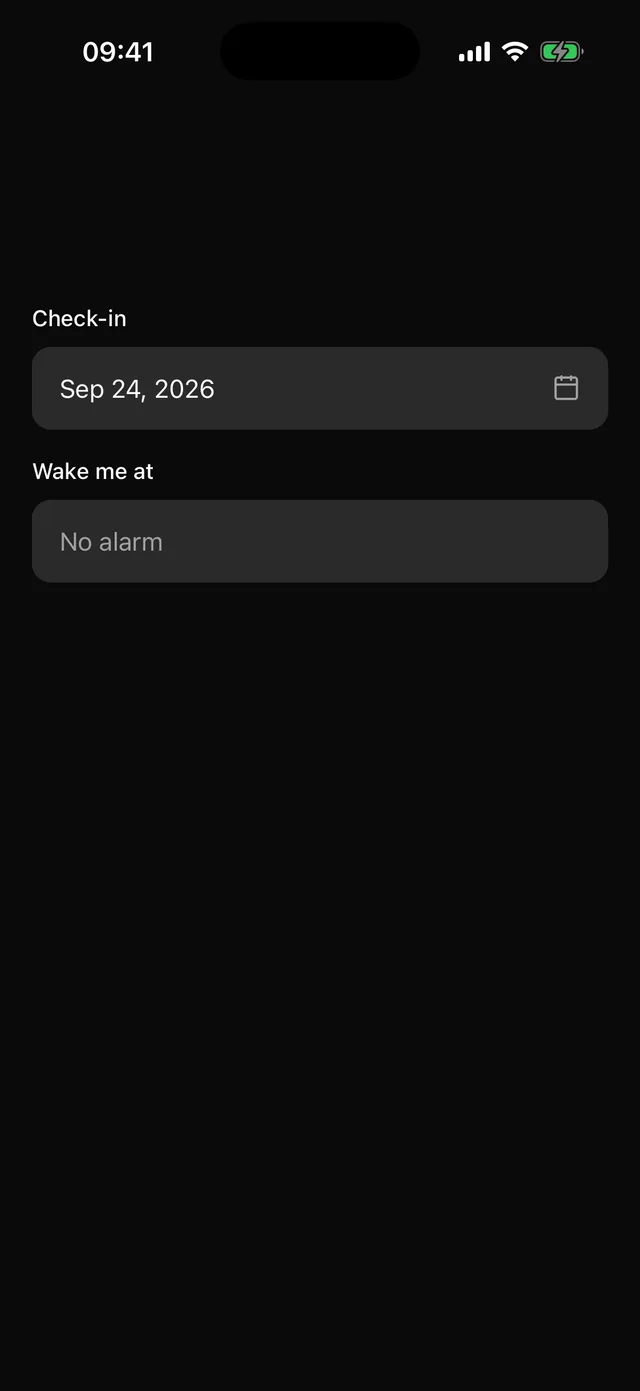
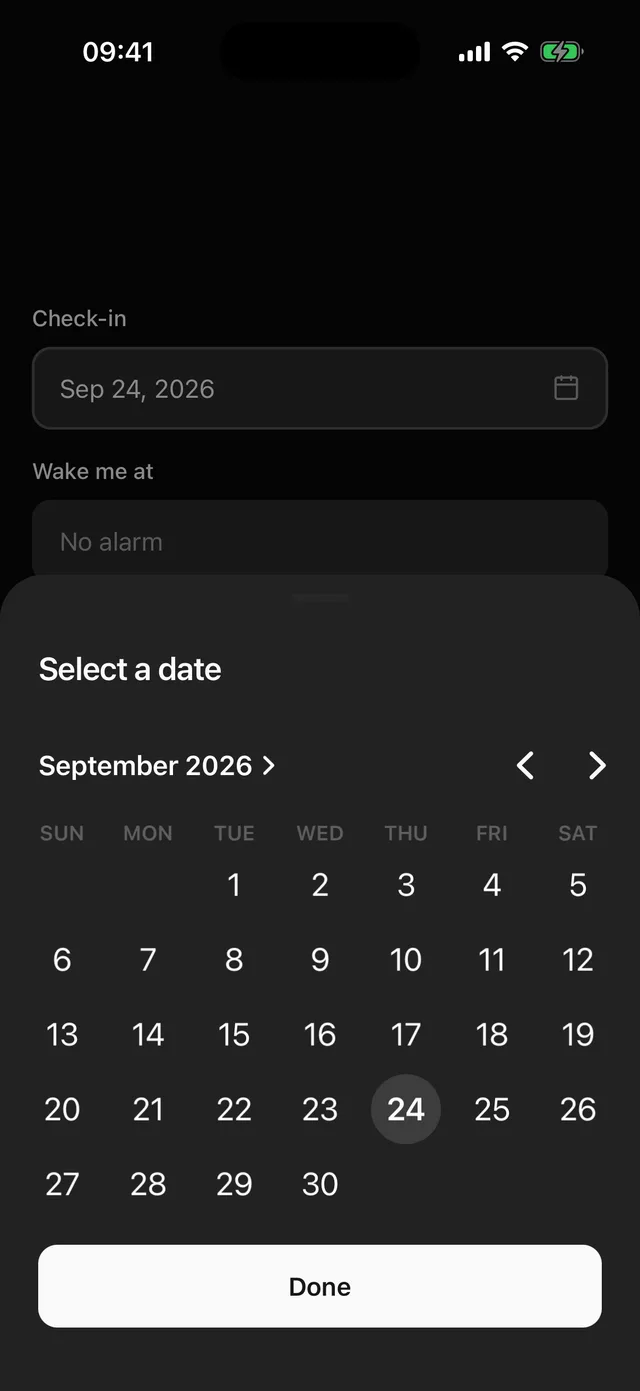
fix(registry): date picker calendar fills the dialog, preview shows it open
The iOS calendar sets its own size to about 330pt, so it sat centred in
the dialog with a gap on both sides. A minimum width is the one size the
native view does not override, so the calendar now fills the dialog. The
wrapper pulls it out by the margin the calendar keeps, and the month, the
weekday row and the Done button share one edge.

DatePicker takes open, defaultOpen and onOpenChange. On Android the
system dialog follows the same state and closes when open turns false.

The docs capture opens the calendar. The closed field said nothing about
the component.

diff --git a/apps/example/src/components/ui/date-picker.tsx b/apps/example/src/components/ui/date-picker.tsx
@@ -1,4 +1,11 @@
-import { cloneElement, isValidElement, useCallback, useState, type ReactElement } from 'react'
+import {
+  cloneElement,
+  isValidElement,
+  useCallback,
+  useEffect,
+  useState,
+  type ReactElement,
+} from 'react'
 import { Platform, Pressable, View, type PressableProps } from 'react-native'
 import { useUnistyles } from 'react-native-unistyles'
 import DateTimePicker, { DateTimePickerAndroid } from '@react-native-community/datetimepicker'
@@ -24,6 +31,13 @@ import { Text } from '@/components/ui/text'
  * a bottom Dialog with a Done button. Android opens the system dialog. No calendar is drawn
  * in JS, so locale, first day of the week and accessibility come from the OS.
  */
+// The iOS calendar sets its month and weekday labels this far in from its own edge, and pads
+// its top and bottom by about as much. Measured on iOS 26.
+const CALENDAR_INSET = 12
+// The calendar measures itself about 330pt wide, whatever the room. A minimum width is the
+// one size it does not override, so this makes it fill the dialog.
+const FILL = { minWidth: '100%' } as const
+
 export const datePickerRecipe = defineSlotRecipe((theme) => ({
   slots: {
     /** Trigger. Mirrors the Input frame. */
@@ -49,8 +63,15 @@ export const datePickerRecipe = defineSlotRecipe((theme) => ({
     placeholder: { color: theme.colors.mutedForeground },
     /** Slot for a trailing icon. `width` becomes `size`, `color` becomes `color`. */
     icon: { width: 18, height: 18, color: theme.colors.mutedForeground },
-    /** Wraps the iOS picker inside the dialog. */
-    picker: { alignItems: 'center' },
+    /**
+     * Wraps the iOS picker inside the dialog. The wrapper pulls the picker out by the margin
+     * it keeps, so its labels line up with the title and the button.
+     */
+    picker: {
+      alignItems: 'center',
+      marginHorizontal: -CALENDAR_INSET,
+      marginVertical: -theme.space[2],
+    },
   },
   variants: {
     size: {
@@ -95,6 +116,10 @@ export type DatePickerProps = Omit<PressableProps, 'style' | 'children' | 'disab
     value?: Date
     defaultValue?: Date
     onValueChange?: (date: Date) => void
+    /** Whether the picker is showing. Leave it out and the field opens itself on press. */
+    open?: boolean
+    defaultOpen?: boolean
+    onOpenChange?: (open: boolean) => void
     /** `date`, `time`, or both. Android asks for the date and then the time. Default `date`. */
     mode?: Mode
     minimumDate?: Date
@@ -116,6 +141,9 @@ export function DatePicker({
   value: controlled,
   defaultValue,
   onValueChange,
+  open: controlledOpen,
+  defaultOpen = false,
+  onOpenChange,
   mode = 'date',
   minimumDate,
   maximumDate,
@@ -133,9 +161,16 @@ export function DatePicker({
 }: DatePickerProps) {
   const [uncontrolled, setUncontrolled] = useState(defaultValue)
   const value = controlled ?? uncontrolled
-  const [open, setOpen] = useState(false)
+  const [uncontrolledOpen, setUncontrolledOpen] = useState(defaultOpen)
+  const open = controlledOpen ?? uncontrolledOpen
   // iOS edits a draft and commits it on Done, so scrolling the wheels does not fire changes.
   const [draft, setDraft] = useState(() => value ?? new Date())
+  // Every opening starts from the value, whatever the last draft was.
+  const [wasOpen, setWasOpen] = useState(open)
+  if (wasOpen !== open) {
+    setWasOpen(open)
+    if (open) setDraft(value ?? new Date())
+  }
   const { theme, rt } = useUnistyles()
   const s = useRecipe(datePickerRecipe, { size, open, invalid, disabled }, styles)
 
@@ -147,26 +182,38 @@ export function DatePicker({
     [controlled, onValueChange],
   )
 
-  const show = () => {
-    const start = value ?? new Date()
-    if (Platform.OS !== 'android') {
-      setDraft(start)
-      setOpen(true)
-      return
-    }
-    const ask = (step: 'date' | 'time', from: Date) =>
+  const setOpen = useCallback(
+    (next: boolean) => {
+      if (controlledOpen === undefined) setUncontrolledOpen(next)
+      onOpenChange?.(next)
+    },
+    [controlledOpen, onOpenChange],
+  )
+
+  // Android has no view to render. Opening shows the system dialog, closing takes it down.
+  useEffect(() => {
+    if (Platform.OS !== 'android' || !open) return
+    let showing: 'date' | 'time' = mode === 'time' ? 'time' : 'date'
+    const ask = (step: 'date' | 'time', from: Date) => {
+      showing = step
       DateTimePickerAndroid.open({
         value: from,
         mode: step,
         minimumDate,
         maximumDate,
         onValueChange: (_event, picked) => {
-          if (mode === 'datetime' && step === 'date') ask('time', picked)
-          else commit(picked)
+          if (mode === 'datetime' && step === 'date') return ask('time', picked)
+          commit(picked)
+          setOpen(false)
         },
+        onDismiss: () => setOpen(false),
       })
-    ask(mode === 'time' ? 'time' : 'date', start)
-  }
+    }
+    ask(showing, value ?? new Date())
+    return () => void DateTimePickerAndroid.dismiss(showing)
+    // Runs when `open` flips. The dialog keeps the props it was opened with.
+    // eslint-disable-next-line react-hooks/exhaustive-deps
+  }, [open])
 
   const text = value ? (formatValue ?? ((d: Date) => defaultFormat(d, mode)))(value) : undefined
   return (
@@ -177,7 +224,7 @@ export function DatePicker({
         accessibilityValue={{ text: text ?? placeholder }}
         accessibilityState={{ disabled, expanded: open }}
         disabled={disabled}
-        onPress={show}
+        onPress={() => setOpen(true)}
         style={({ pressed }) => [s.root, pressed && s.rootPressed]}
         {...rest}
       >
@@ -206,6 +253,7 @@ export function DatePicker({
                 themeVariant={rt.themeName === 'dark' ? 'dark' : 'light'}
                 accentColor={theme.colors.primary}
                 textColor={theme.colors.foreground}
+                style={mode === 'date' ? FILL : undefined}
                 onValueChange={(_event, picked) => setDraft(picked)}
               />
             </View>

diff --git a/registry/ui/date-picker.tsx b/registry/ui/date-picker.tsx
@@ -1,4 +1,11 @@
-import { cloneElement, isValidElement, useCallback, useState, type ReactElement } from 'react'
+import {
+  cloneElement,
+  isValidElement,
+  useCallback,
+  useEffect,
+  useState,
+  type ReactElement,
+} from 'react'
 import { Platform, Pressable, View, type PressableProps } from 'react-native'
 import { useUnistyles } from 'react-native-unistyles'
 import DateTimePicker, { DateTimePickerAndroid } from '@react-native-community/datetimepicker'
@@ -24,6 +31,13 @@ import { Text } from '@/components/ui/text'
  * a bottom Dialog with a Done button. Android opens the system dialog. No calendar is drawn
  * in JS, so locale, first day of the week and accessibility come from the OS.
  */
+// The iOS calendar sets its month and weekday labels this far in from its own edge, and pads
+// its top and bottom by about as much. Measured on iOS 26.
+const CALENDAR_INSET = 12
+// The calendar measures itself about 330pt wide, whatever the room. A minimum width is the
+// one size it does not override, so this makes it fill the dialog.
+const FILL = { minWidth: '100%' } as const
+
 export const datePickerRecipe = defineSlotRecipe((theme) => ({
   slots: {
     /** Trigger. Mirrors the Input frame. */
@@ -49,8 +63,15 @@ export const datePickerRecipe = defineSlotRecipe((theme) => ({
     placeholder: { color: theme.colors.mutedForeground },
     /** Slot for a trailing icon. `width` becomes `size`, `color` becomes `color`. */
     icon: { width: 18, height: 18, color: theme.colors.mutedForeground },
-    /** Wraps the iOS picker inside the dialog. */
-    picker: { alignItems: 'center' },
+    /**
+     * Wraps the iOS picker inside the dialog. The wrapper pulls the picker out by the margin
+     * it keeps, so its labels line up with the title and the button.
+     */
+    picker: {
+      alignItems: 'center',
+      marginHorizontal: -CALENDAR_INSET,
+      marginVertical: -theme.space[2],
+    },
   },
   variants: {
     size: {
@@ -95,6 +116,10 @@ export type DatePickerProps = Omit<PressableProps, 'style' | 'children' | 'disab
     value?: Date
     defaultValue?: Date
     onValueChange?: (date: Date) => void
+    /** Whether the picker is showing. Leave it out and the field opens itself on press. */
+    open?: boolean
+    defaultOpen?: boolean
+    onOpenChange?: (open: boolean) => void
     /** `date`, `time`, or both. Android asks for the date and then the time. Default `date`. */
     mode?: Mode
     minimumDate?: Date
@@ -116,6 +141,9 @@ export function DatePicker({
   value: controlled,
   defaultValue,
   onValueChange,
+  open: controlledOpen,
+  defaultOpen = false,
+  onOpenChange,
   mode = 'date',
   minimumDate,
   maximumDate,
@@ -133,9 +161,16 @@ export function DatePicker({
 }: DatePickerProps) {
   const [uncontrolled, setUncontrolled] = useState(defaultValue)
   const value = controlled ?? uncontrolled
-  const [open, setOpen] = useState(false)
+  const [uncontrolledOpen, setUncontrolledOpen] = useState(defaultOpen)
+  const open = controlledOpen ?? uncontrolledOpen
   // iOS edits a draft and commits it on Done, so scrolling the wheels does not fire changes.
   const [draft, setDraft] = useState(() => value ?? new Date())
+  // Every opening starts from the value, whatever the last draft was.
+  const [wasOpen, setWasOpen] = useState(open)
+  if (wasOpen !== open) {
+    setWasOpen(open)
+    if (open) setDraft(value ?? new Date())
+  }
   const { theme, rt } = useUnistyles()
   const s = useRecipe(datePickerRecipe, { size, open, invalid, disabled }, styles)
 
@@ -147,26 +182,38 @@ export function DatePicker({
     [controlled, onValueChange],
   )
 
-  const show = () => {
-    const start = value ?? new Date()
-    if (Platform.OS !== 'android') {
-      setDraft(start)
-      setOpen(true)
-      return
-    }
-    const ask = (step: 'date' | 'time', from: Date) =>
+  const setOpen = useCallback(
+    (next: boolean) => {
+      if (controlledOpen === undefined) setUncontrolledOpen(next)
+      onOpenChange?.(next)
+    },
+    [controlledOpen, onOpenChange],
+  )
+
+  // Android has no view to render. Opening shows the system dialog, closing takes it down.
+  useEffect(() => {
+    if (Platform.OS !== 'android' || !open) return
+    let showing: 'date' | 'time' = mode === 'time' ? 'time' : 'date'
+    const ask = (step: 'date' | 'time', from: Date) => {
+      showing = step
       DateTimePickerAndroid.open({
         value: from,
         mode: step,
         minimumDate,
         maximumDate,
         onValueChange: (_event, picked) => {
-          if (mode === 'datetime' && step === 'date') ask('time', picked)
-          else commit(picked)
+          if (mode === 'datetime' && step === 'date') return ask('time', picked)
+          commit(picked)
+          setOpen(false)
         },
+        onDismiss: () => setOpen(false),
       })
-    ask(mode === 'time' ? 'time' : 'date', start)
-  }
+    }
+    ask(showing, value ?? new Date())
+    return () => void DateTimePickerAndroid.dismiss(showing)
+    // Runs when `open` flips. The dialog keeps the props it was opened with.
+    // eslint-disable-next-line react-hooks/exhaustive-deps
+  }, [open])
 
   const text = value ? (formatValue ?? ((d: Date) => defaultFormat(d, mode)))(value) : undefined
   return (
@@ -177,7 +224,7 @@ export function DatePicker({
         accessibilityValue={{ text: text ?? placeholder }}
         accessibilityState={{ disabled, expanded: open }}
         disabled={disabled}
-        onPress={show}
+        onPress={() => setOpen(true)}
         style={({ pressed }) => [s.root, pressed && s.rootPressed]}
         {...rest}
       >
@@ -206,6 +253,7 @@ export function DatePicker({
                 themeVariant={rt.themeName === 'dark' ? 'dark' : 'light'}
                 accentColor={theme.colors.primary}
                 textColor={theme.colors.foreground}
+                style={mode === 'date' ? FILL : undefined}
                 onValueChange={(_event, picked) => setDraft(picked)}
               />
             </View>

diff --git a/apps/example/src/previews/native.tsx b/apps/example/src/previews/native.tsx
@@ -28,7 +28,7 @@ function DatePickerPreview() {
     <VStack gap={4}>
       <VStack gap={2}>
         <Label>Check-in</Label>
-        <DatePicker value={date} onValueChange={setDate} icon={<Calendar />} />
+        <DatePicker defaultOpen value={date} onValueChange={setDate} icon={<Calendar />} />
       </VStack>
       <VStack gap={2}>
         <Label>Wake me at</Label>
